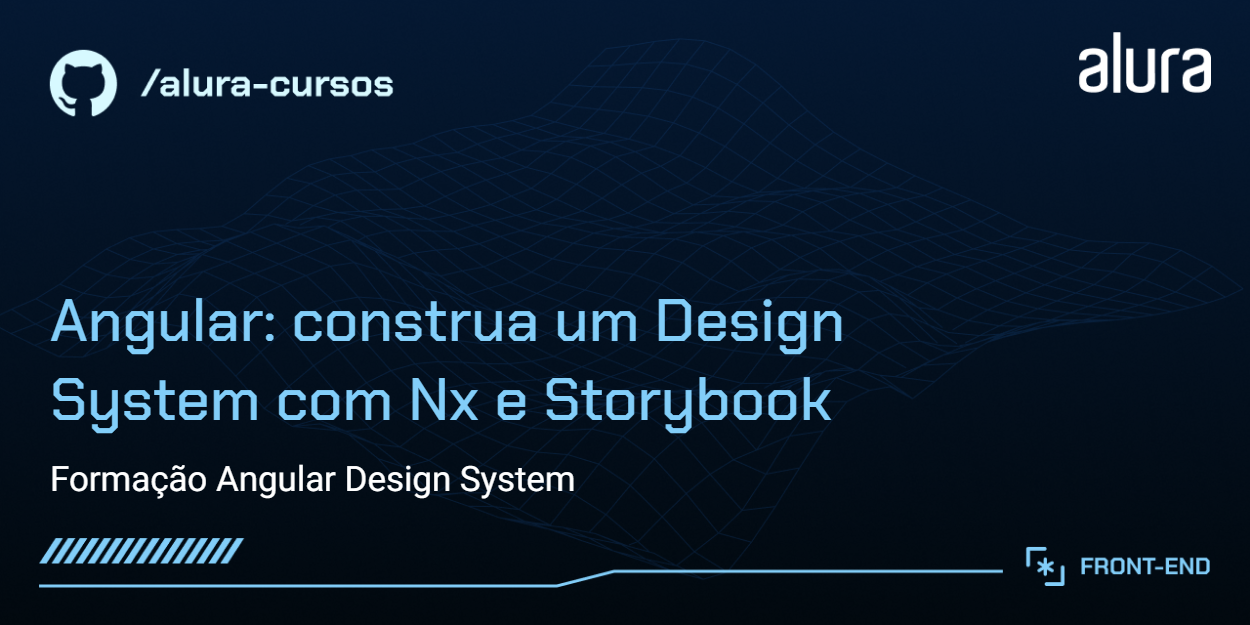
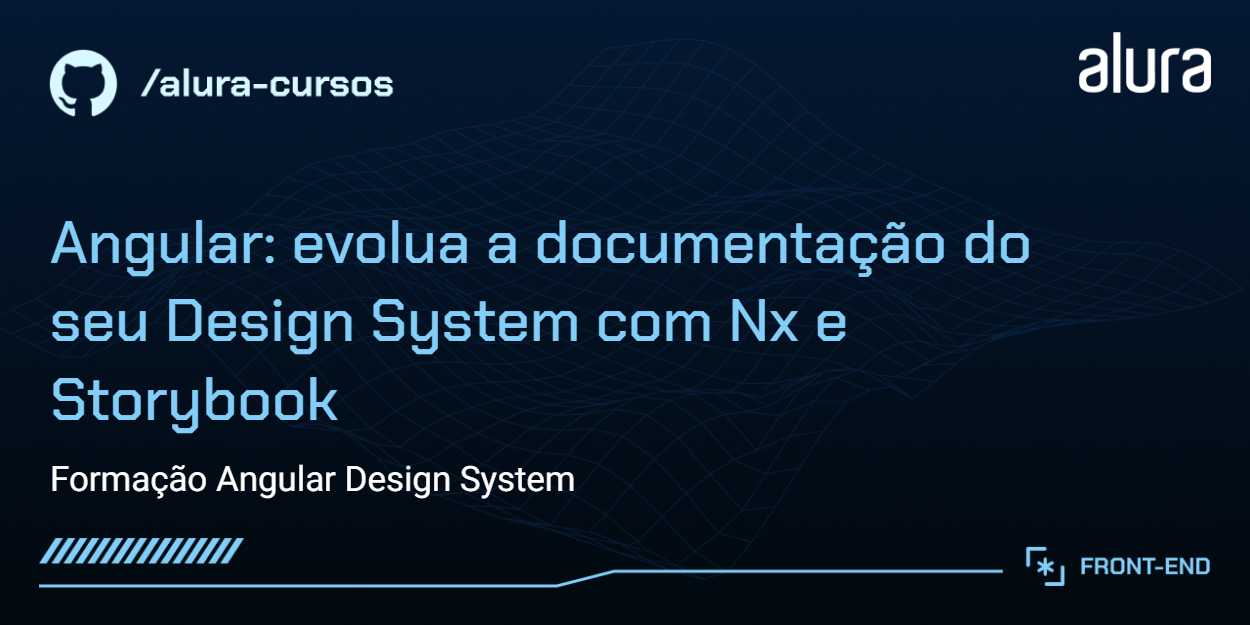
ajusta README para 4016

Changed region(s): [[0.0312, 0.3648, 0.8424, 0.456], [0.0312, 0.456, 0.6864, 0.5776], [0.0624, 0.608, 0.6864, 0.6992]]

diff --git a/README.md b/README.md
@@ -8,7 +8,9 @@ Monorepo criado para implementação do Design System da empresa fictícia Alfab
 
 ## 🔨 Funcionalidades do projeto
 
-A biblioteca de botão criada no monorepo (mono-repositório) pode ser visualizada em um servidor do Storybook, onde foi feita uma documentação interativa do componente. Além disso, a publicação da biblioteca de botão foi automatizada com o Nx Release.
+Atualmente, a biblioteca de botão criada no monorepo (mono-repositório) pode ser visualizada em um servidor do Storybook, onde foi feita uma documentação interativa do componente. Além disso, a publicação da biblioteca de botão foi automatizada com o Nx Release.
+
+Agora está na hora de evoluir a documentação do Storybook! Iremos trabalhar em um novo componente de input e evoluir a documentação de nossos componentes, utilizando MDX e outros recursos. Além disso, iremos melhorar a publicação automática do Nx Release.
 
 Acesse o [Figma do Design System](https://www.figma.com/community/file/1402315008064949507).
 
